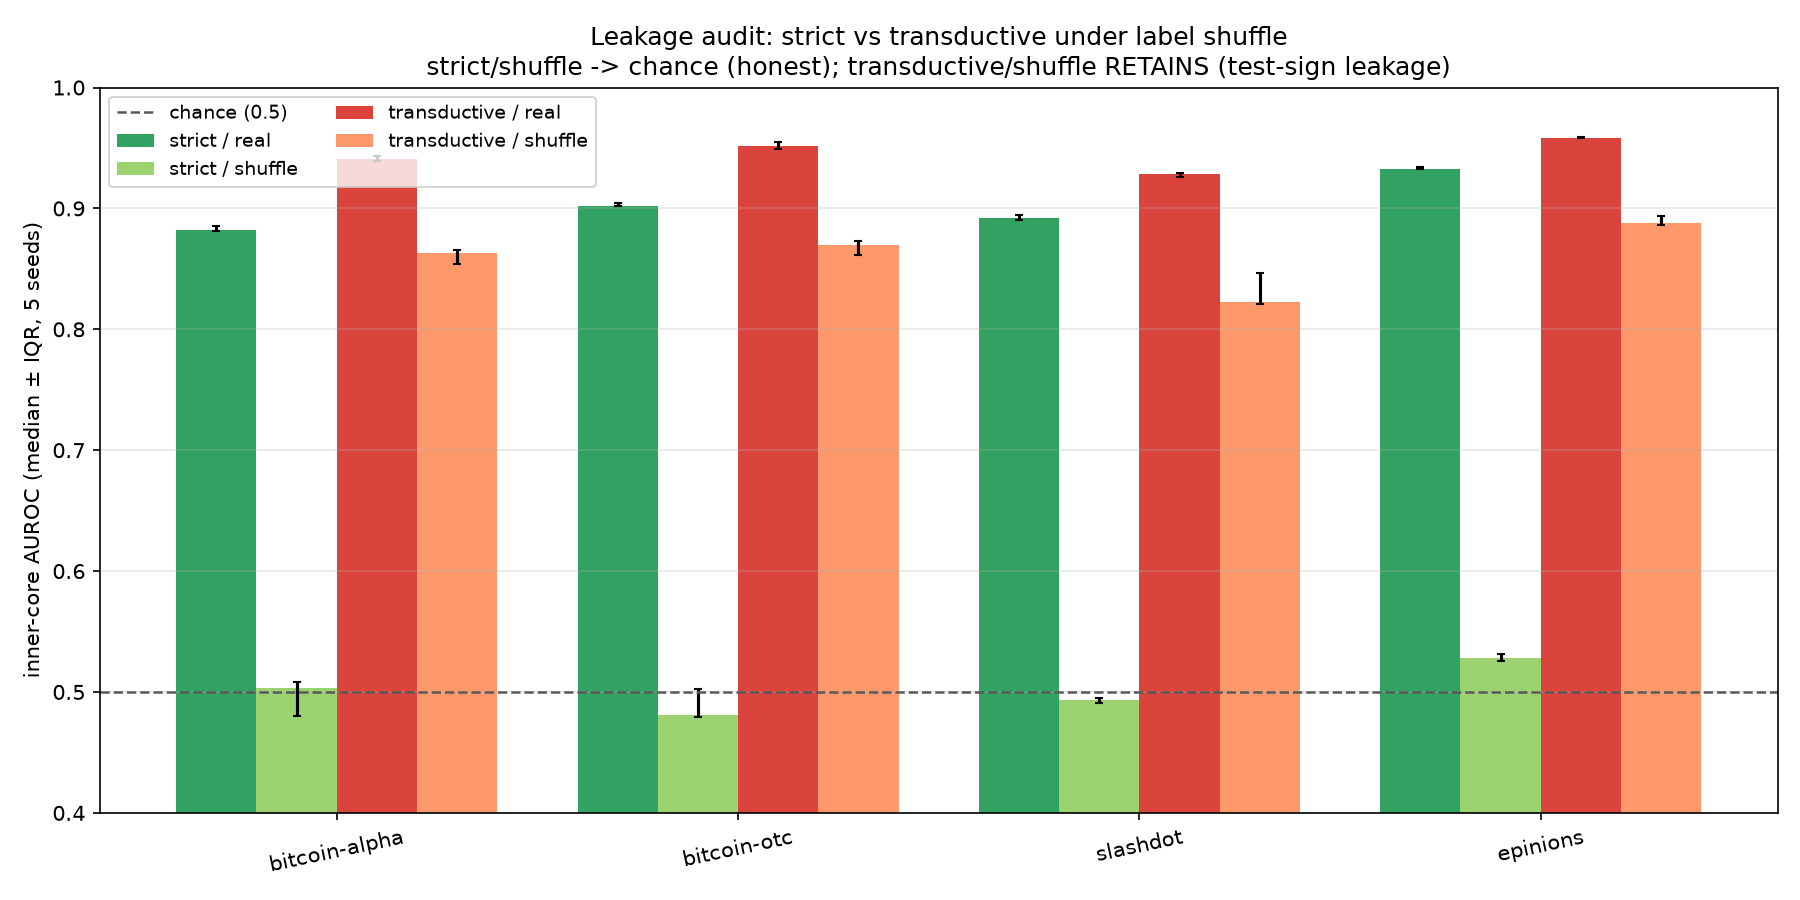
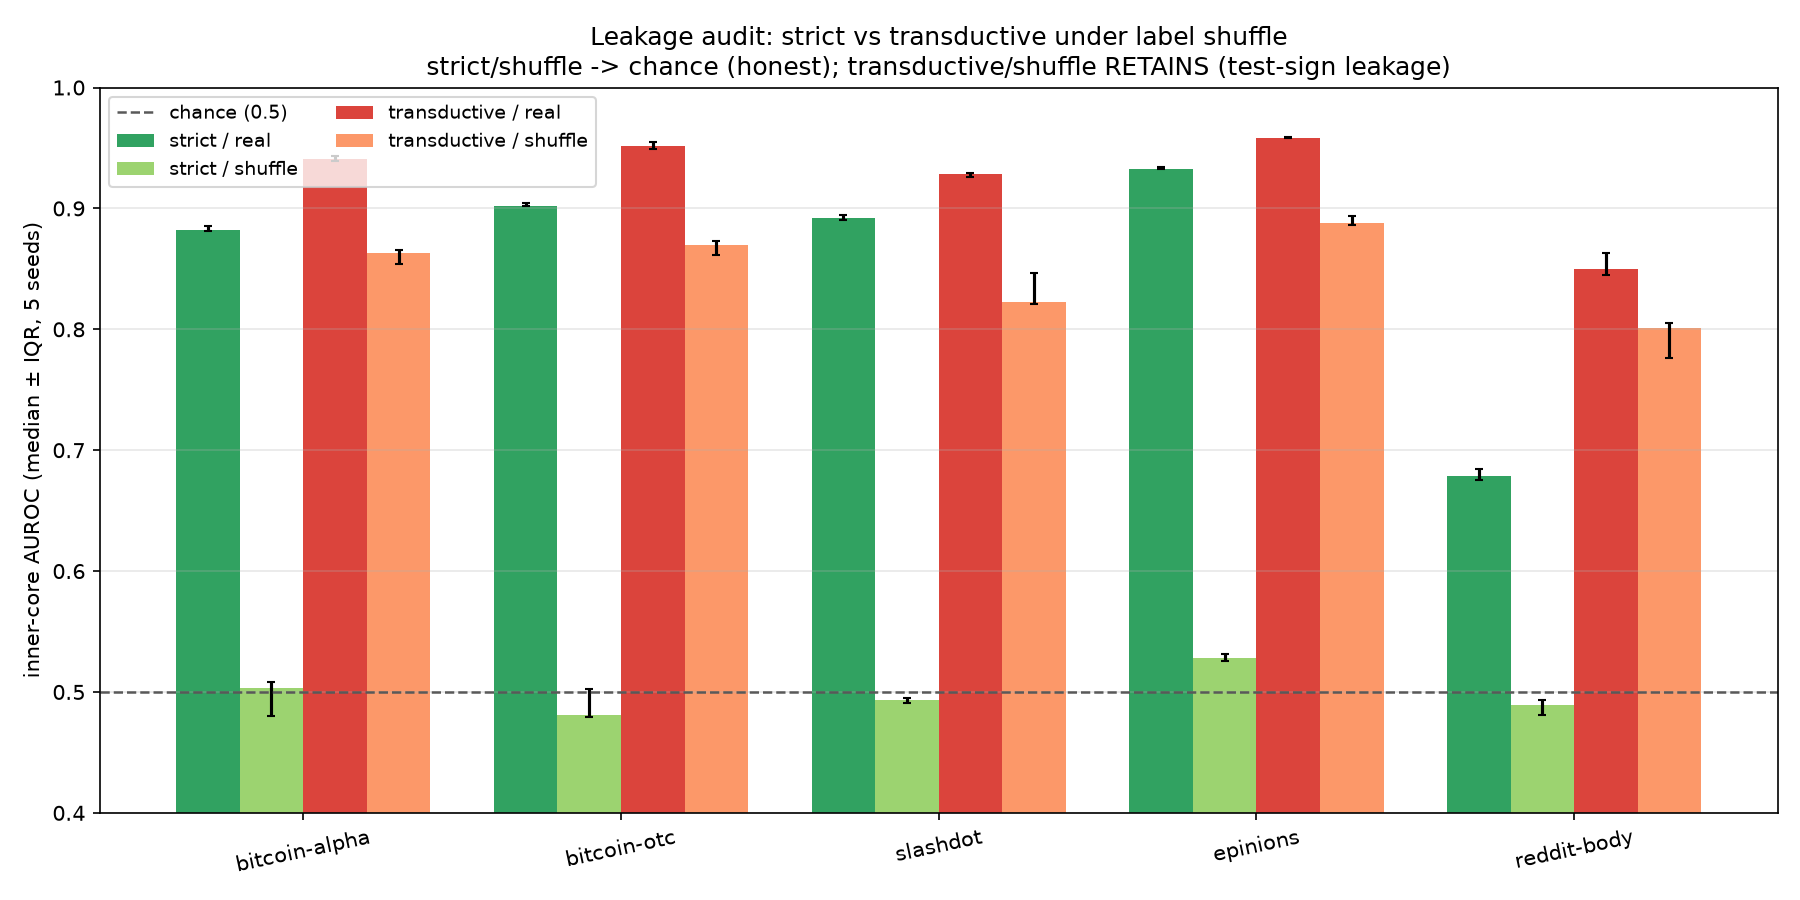
Reddit Hyperlinks (body) = 5th graph: balance metric + full leakage audit (paper Table 2 complete)
Downloaded SNAP soc-redditHyperlinks-body, preprocessed to signed integer edgelist (subreddit names->ids,
multi-edges aggregated to net-sentiment sign/pair; scripts/dev/prep_reddit_signed.py). V=21836, 66570 pairs,
only 5.9% negative.

BALANCE: reddit-body strong-CH 0.822 = LEAST BALANCED of the 5 despite fewest negatives — structural anomaly:
its rare negatives sit in UNBALANCED ++- triads (0.177) not balanced +-- (0.024); weak Davis barely moves it
(0.823). Trust nets (Bitcoin) put negatives in balanced +--; Reddit sentiment negatives do not.

LEAKAGE AUDIT: reddit is the SHARPEST case. strict-real 0.6783 (honestly HARD: extreme imbalance + least
balanced), strict-shuffle 0.4889 (chance, honest); transd-real 0.8495, transd-shuffle 0.8009 -> 86% leakage.
Transductive convention INFLATES 0.68->0.85 = illusory +0.17 that is 86% leakage: on a hard dataset leakage
MANUFACTURES the majority of apparent performance. Cleanest argument for the strict protocol.

Full 5-graph tables + figures regenerated (balance-metrics.png, leakage-audit.png). Reports updated. Paper
Table 2 dataset set now COMPLETE (alpha/otc/slashdot/epinions/reddit). No source/deps/CORE changed (data lives
in external nagare_data/signed/, not tracked). Co-Authored-By: Claude Opus 4.8 (1M context) <[email redacted]>

diff --git a/scripts/dev/prep_reddit_signed.py b/scripts/dev/prep_reddit_signed.py
@@ -1,0 +1,60 @@
+#!/usr/bin/env python3
+"""Preprocess the SNAP Reddit Hyperlinks body network into a signed integer
+edgelist the cpml_signed_link / balance_metrics tooling can read.
+
+Source (download first):
+    curl -sSL -o reddit-body.tsv \
+      https://snap.stanford.edu/data/soc-redditHyperlinks-body.tsv
+
+The TSV is SOURCE_SUBREDDIT, TARGET_SUBREDDIT, POST_ID, TIMESTAMP,
+LINK_SENTIMENT (+1/-1), PROPERTIES. Nodes are subreddit *names*; there are
+multiple hyperlinks per pair. We map names -> ids and aggregate multi-edges to
+the NET-sentiment sign per (src,tgt) pair (ties dropped).
+
+Usage:
+    python scripts/dev/prep_reddit_signed.py reddit-body.tsv soc-sign-reddit-body.csv
+"""
+import csv
+import sys
+from collections import defaultdict
+
+
+def main():
+    src = sys.argv[1] if len(sys.argv) > 1 else "reddit-body.tsv"
+    dst = sys.argv[2] if len(sys.argv) > 2 else "soc-sign-reddit-body.csv"
+    net = defaultdict(int)
+    with open(src) as f:
+        r = csv.reader(f, delimiter="\t")
+        next(r)  # header
+        for row in r:
+            if len(row) < 5:
+                continue
+            try:
+                s = int(row[4])
+            except ValueError:
+                continue
+            net[(row[0], row[1])] += s
+    ids = {}
+
+    def nid(name):
+        if name not in ids:
+            ids[name] = len(ids)
+        return ids[name]
+
+    n_pos = n_neg = n_tie = 0
+    with open(dst, "w") as out:
+        for (u, v), s in net.items():
+            if s == 0:
+                n_tie += 1
+                continue
+            sign = 1 if s > 0 else -1
+            n_pos += sign > 0
+            n_neg += sign < 0
+            out.write(f"{nid(u)},{nid(v)},{sign}\n")
+    tot = n_pos + n_neg
+    print(f"reddit-body: V={len(ids)} pairs={tot} pos={n_pos} neg={n_neg} "
+          f"neg-frac={n_neg / max(tot, 1):.3f} ties-dropped={n_tie} -> {dst}")
+
+
+if __name__ == "__main__":
+    main()

diff --git a/scripts/dev/balance_metrics.py b/scripts/dev/balance_metrics.py
@@ -155,6 +155,7 @@ def main():
         ("bitcoin-otc", "soc-sign-bitcoinotc.csv"),
         ("slashdot", "soc-sign-Slashdot090221.txt"),
         ("epinions", "soc-sign-epinions.txt"),
+        ("reddit-body", "soc-sign-reddit-body.csv"),
     ]
     rng = random.Random(0)
     summary = {}
@@ -186,7 +187,7 @@ def main():
     import matplotlib.pyplot as plt
 
     fig, (axl, axr) = plt.subplots(1, 2, figsize=(13, 5.4))
-    colors = ["#4575b4", "#74add1", "#f46d43", "#d73027"]
+    colors = ["#4575b4", "#74add1", "#f46d43", "#d73027", "#762a83"][: len(graphs)]
     for n, c in zip(ns, ["#762a83", "#5aae61", "#f46d43", "#2166ac"]):
         axl.plot(qs, pbal[n], lw=2, marker="o", ms=3, label=f"K{n}", color=c)
     axl.set_title("Balance is fragile for random signs\nP(all cycles balanced) vs negative-edge fraction q")

diff --git a/scripts/dev/analyze_leakage_audit.py b/scripts/dev/analyze_leakage_audit.py
@@ -25,7 +25,7 @@ import matplotlib
 matplotlib.use("Agg")
 import matplotlib.pyplot as plt
 
-ORDER = ["bitcoin-alpha", "bitcoin-otc", "slashdot", "epinions"]
+ORDER = ["bitcoin-alpha", "bitcoin-otc", "slashdot", "epinions", "reddit-body"]
 # canonical condition key -> (label, source-cond-in-tsv)
 REMAP = {"real": "strict-real", "shuffle": "strict-shuffle",
          "transd-real": "transd-real", "transd-shuffle": "transd-shuffle"}

diff --git a/reports/2026-07-13-signed-link-leakage-audit-full.md b/reports/2026-07-13-signed-link-leakage-audit-full.md
@@ -21,6 +21,7 @@ leakage directly.
 | bitcoin-otc | 0.9023 | **0.4806** | 0.9519 | 0.8697 | **82%** |
 | slashdot | 0.8922 | **0.4936** | 0.9283 | 0.8224 | **75%** |
 | epinions | 0.9330 | **0.5284** | 0.9584 | 0.8877 | **85%** |
+| reddit-body | **0.6783** | **0.4889** | 0.8495 | 0.8009 | **86%** |
 
 (Inner-core L=3 AUROC, median over 5 seeds, `--max-tri 40000`. Leakage = share of the transductive model's
 *above-chance* score that survives shuffling: `(transd_shuffle − 0.5) / (transd_real − 0.5)`.) Figure:
@@ -75,11 +76,21 @@ transductive convention *contaminates* it (shuffle→retained).
 Gates: `cargo fmt --check`, `cargo clippy --all-targets -D warnings` clean; full suite **145/0**. No new deps,
 no CORE.YAML.
 
-## Status — the paper's Table 2 is now filled (CPML core)
+## Reddit-body — the strongest illustration (added: 5th graph)
 
-Both sides are measured across 4 graphs: the honest strict protocol (real high, shuffle chance) and the leaky
-transductive convention (real inflated, shuffle retained → 75–85% leakage). Reddit Hyperlinks (the 5th dataset
-in the draft) is not in `nagare_data/signed/` — add that edgelist to extend the table to 5 graphs.
+Reddit Hyperlinks (body network, subreddit→subreddit links signed by comment sentiment; multi-edges aggregated
+to net-sentiment sign per pair; V=21,836, 66,570 signed pairs, only **5.9% negative**) is the sharpest case.
+Its honest **strict-real AUROC is only 0.678** — the task is genuinely hard (extreme class imbalance, and it is
+the *least balanced* graph at strong-CH 0.822, its rare negatives sitting in unbalanced `++-` triads). Yet the
+transductive convention inflates it to **0.850** — an illusory **+0.17 AUROC that is 86% leakage**. Here leakage
+does not merely pad an already-good score; it **manufactures the majority of the apparent performance** on a
+hard dataset. This is the cleanest argument for the strict protocol: without it, a hard problem looks solved.
+
+## Status — the paper's Table 2 is now filled (CPML core, 5 graphs)
+
+Both sides measured across **5 graphs**: the honest strict protocol (real high — except the honestly-hard
+reddit at 0.68 — shuffle chance) and the leaky transductive convention (real inflated, shuffle retained →
+75–86% leakage). The draft's dataset set is complete.
 
 ## Provenance
 

diff --git a/reports/2026-07-13-signed-balance-metric.md b/reports/2026-07-13-signed-balance-metric.md
@@ -23,8 +23,12 @@ produced the 2026-07-07 figure (a reproducibility gap: the figure existed, the c
 | bitcoin-otc | 5,881 | 21,492 | 0.136 | **0.893** | 0.900 | 0.744 | 0.149 | 0.100 | 0.007 |
 | slashdot | 82,140 | 500,481 | 0.236 | **0.860** | 0.882 | 0.724 | 0.136 | 0.119 | 0.021 |
 | epinions | 131,580 | 711,210 | 0.170 | **0.891** | 0.904 | 0.807 | 0.084 | 0.096 | 0.013 |
+| reddit-body | 21,836 | 66,570 | 0.059 | **0.822** | 0.823 | 0.798 | 0.024 | 0.177 | 0.001 |
 
-(200k triangle-uniform samples; chance = 0.5.) Figure: `reports/figures/balance-metrics.png` — left: balance
+(200k triangle-uniform samples; chance = 0.5.) **Reddit-body is the least balanced (0.822)** despite the
+fewest negatives — a structural anomaly: its rare negative edges sit in *unbalanced* `++-` triads (0.177), not
+the balanced `+--` (0.024), so weak Davis balance barely moves it (0.823). Trust networks (Bitcoin) put
+negatives into balanced `+--` configurations; Reddit's sentiment negatives do not. Figure: `reports/figures/balance-metrics.png` — left: balance
 is fragile for random signs (P(all cycles balanced) vs q, K₃–K₆, collapses faster with more cycles); right:
 all four real graphs sit at 0.86–0.89, far above chance, despite q up to 0.24. **That gap is structural
 balance** — the low-entropy state signed networks occupy, and exactly why signed-holonomy features predict.